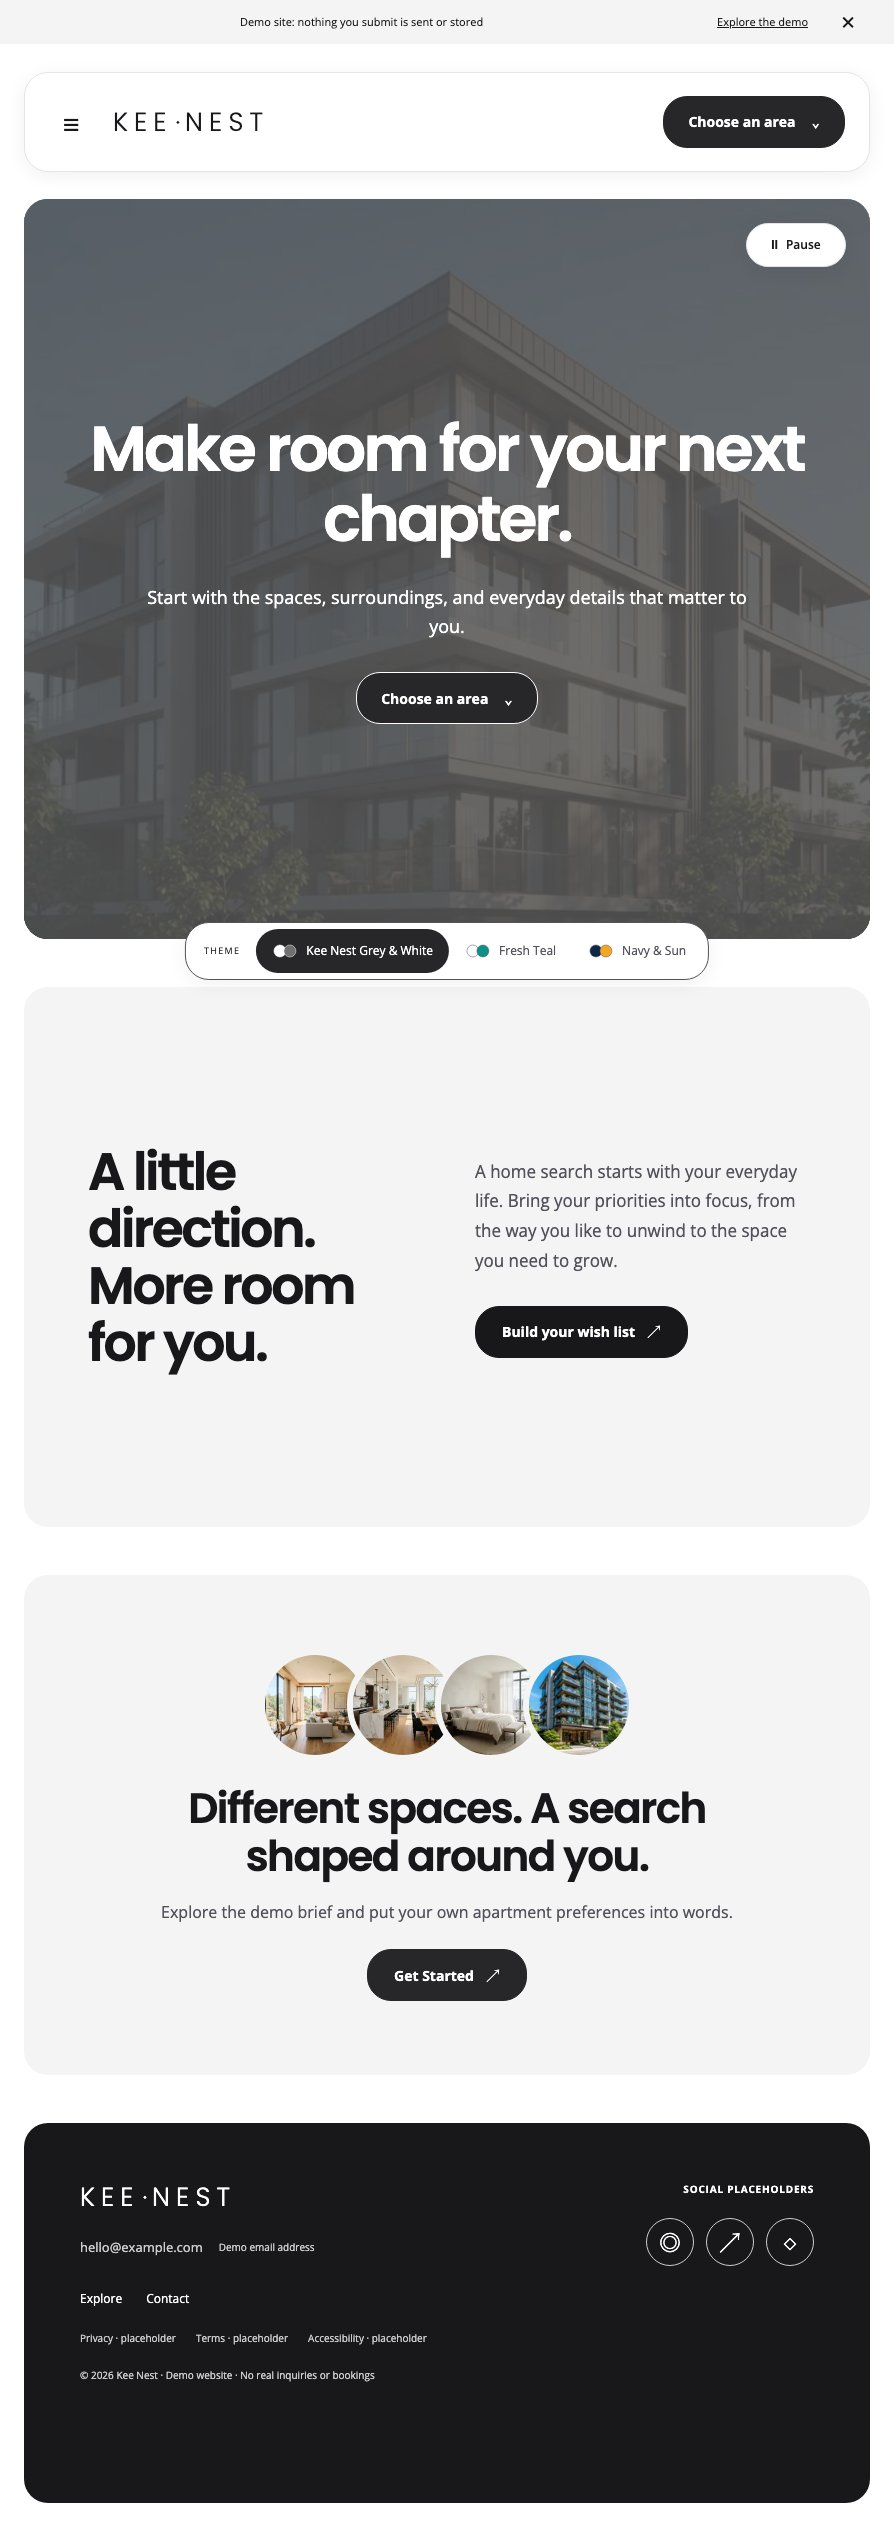
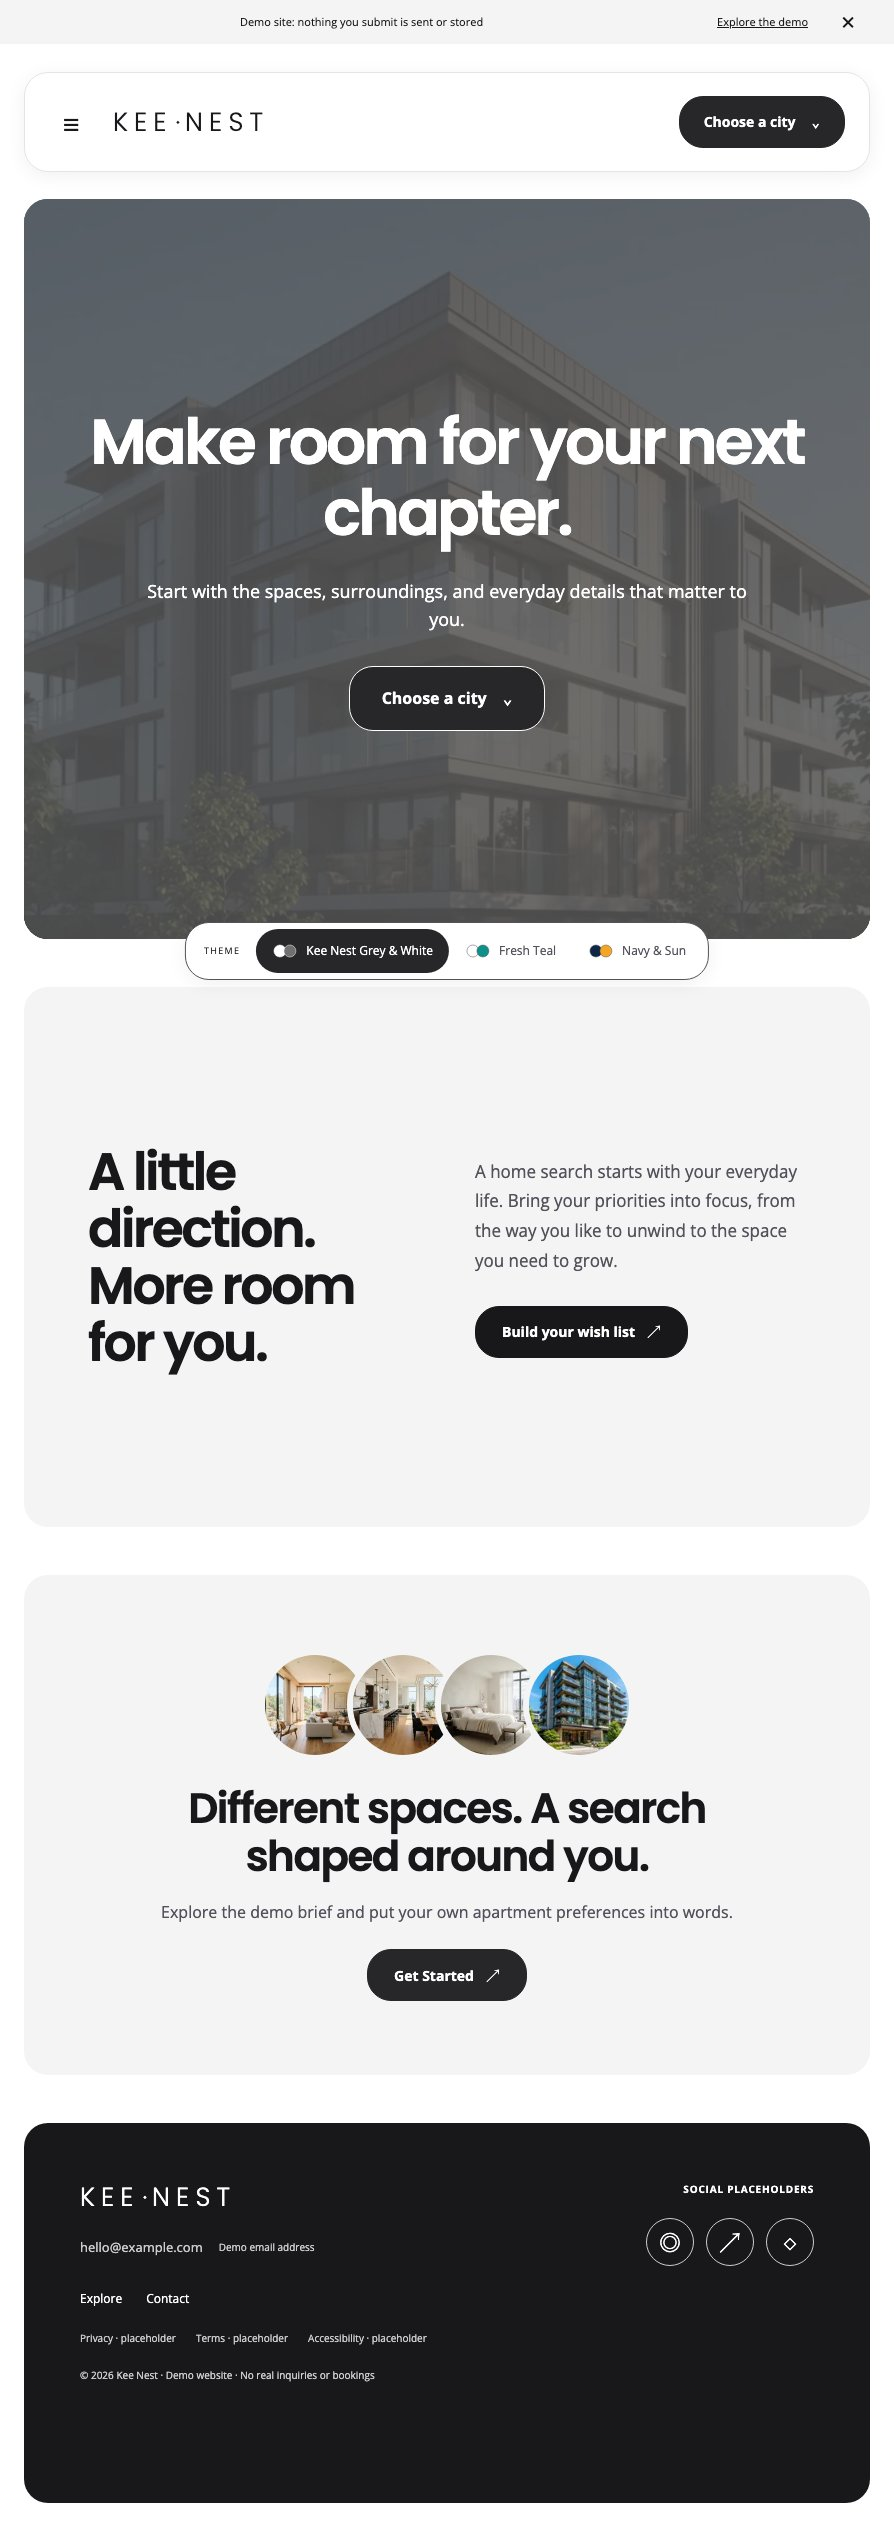
docs: verify city picker routing accessibility and hydration

diff --git a/QA.md b/QA.md
@@ -6,16 +6,16 @@ Verified locally on 2026-11-10 against `npm run preview`, using isolated Playwri
 
 The supplied comparison table is the acceptance reference for this revision. A fresh reference screenshot was not attached, so exact image-to-image fidelity cannot be certified.
 
-| Element           | Implemented and measured                                                                                                                                           |
-| ----------------- | ------------------------------------------------------------------------------------------------------------------------------------------------------------------ |
-| Announcement      | Soft palette strip, demo link, 44px dismiss target. Visible with fresh session storage; dismissal survives refresh in the same tab.                                |
-| Header            | Floating inset card, 24px corners, hamburger + wordmark left, one area chooser right. No desktop nav row. 100px card inside a 155px sticky slot including margins. |
-| Hero              | Inset rounded photo/video card, 740px high, centered copy, 63px Poppins H1, sample-area dropdown CTA. No badge or example-search cards.                            |
-| Feature           | Rounded soft-accent card, 540px high, large heading left, concise copy and dark pill right.                                                                        |
-| Image-circle band | Overlapping owned project images, centered heading and CTA in a 500px soft band.                                                                                   |
-| Footer            | Dark rounded block, demo contact/legal placeholders left and non-linked social placeholders right.                                                                 |
-| Page length       | 2,527px with notice visible: +27px / +1.08% from the approximate 2,500px reference target.                                                                         |
-| Type and corners  | Self-hosted Poppins + Open Sans. Main block/card corners are 24px; buttons remain pills.                                                                           |
+| Element           | Implemented and measured                                                                                                                                          |
+| ----------------- | ----------------------------------------------------------------------------------------------------------------------------------------------------------------- |
+| Announcement      | Soft palette strip, demo link, 44px dismiss target. Visible with fresh session storage; dismissal survives refresh in the same tab.                               |
+| Header            | Floating inset card, 24px corners, hamburger + wordmark left, one city picker right. No desktop nav row. 100px card inside a 155px sticky slot including margins. |
+| Hero              | Inset rounded photo/video card, 740px high, centered copy, 63px Poppins H1, city-picker CTA. No badge or example-search cards.                                    |
+| Feature           | Rounded soft-accent card, 540px high, large heading left, concise copy and dark pill right.                                                                       |
+| Image-circle band | Overlapping owned project images, centered heading and CTA in a 500px soft band.                                                                                  |
+| Footer            | Dark rounded block, demo contact/legal placeholders left and non-linked social placeholders right.                                                                |
+| Page length       | 2,527px with notice visible: +27px / +1.08% from the approximate 2,500px reference target.                                                                        |
+| Type and corners  | Self-hosted Poppins + Open Sans. Main block/card corners are 24px; buttons remain pills.                                                                          |
 
 Home now has four content blocks including the footer. The example searches, process, sample listings, principles, and closing CTA moved to `/explore`, available from the drawer, announcement link, and footer.
 
@@ -25,7 +25,7 @@ Screenshots: [894px](qa/home-894.jpg), [390px](qa/home-390.jpg), [1440px](qa/hom
 
 - Existing client palettes remain grey/white, teal, and navy/amber. Reference blue/periwinkle colors are not copied. All three palettes retain identical layout and type.
 - Copy, wordmark, iconography, project images, and client-supplied video are our own. No reference-site copy, branding, images, code, legal details, addresses, phone numbers, or brokerage notices were used.
-- “Choose an area” offers three clearly illustrative surroundings filters, not real city pages.
+- “Choose a city” uses the four demo entries in `src/data/cities.ts`. The city groups do not represent available properties or service locations.
 - The overlapping circles show cleared interior/exterior images. They do not imply people, a team, clients, reviews, or endorsements.
 - Footer email is `hello@example.com`, labelled demo. Social and legal items are explicit non-linked placeholders.
 - Hero overlay stays lighter than the prior composition while retaining AA white-text contrast. No price/service-cost, quality, statistics, rating, license, or guarantee claims were added. No token-reference band is shown.
@@ -36,7 +36,7 @@ Screenshots: [894px](qa/home-894.jpg), [390px](qa/home-390.jpg), [1440px](qa/hom
 - Zero horizontal overflow. Home also checked at 894px in all palettes. Height is 2,527px at 768/894/1440 and 2,502px at 390. Card geometry remains identical across themes.
 - First-render frame sampling found the persisted theme and correct selected radio, with no wrong-theme paint. Color switching produces zero added layout shift after fonts are ready. Theme persists across route navigation and refresh.
 - Drawer opens with keyboard Enter, contains focus including first/last Tab boundaries, closes with Escape, returns focus to the trigger, and closes on navigation. An explicit boundary trap was added after a keyboard check exposed a native-dialog boundary gap.
-- Header area chooser supports Enter, arrows, Home/End, Escape/focus return, outside click, and link selection into the sample listing filter. The hero reuses the same component.
+- Header city picker supports Enter, arrows, Home/End, Tab, Escape/focus return, outside click, and city-filtered Explore links. Hero and drawer reuse the same component.
 - Announcement is visible on a fresh session; dismissal remains hidden on refresh. The header compacts while its outer slot preserves document flow.
 - Desktop video loads muted; Space/Enter pause and resume. Fresh mobile, reduced-motion, and Save-Data contexts make zero video-file requests and use the poster. Public videos remain silent and below 3 MB. Media sources and fallback logic are unchanged.
 - Sample carousel buttons and arrow keys still work on Listings and Explore. No carousel autoplay. Section reveals and menu motion respect reduced motion. Questionnaire fields have no animation.
@@ -56,7 +56,7 @@ Semantic text, button, error, success, and focus pairs pass the existing automat
 
 The centered hero uses a uniform token-derived overlay. The circles use 224px responsive renditions instead of downloading larger listing images. Poppins and Open Sans replace the old font files and retain their OFL notices; the display and body faces are preloaded locally.
 
-Lighthouse 13.0.3 was rerun for the revised default palette with the same local Chromium, cold network cache, and previous mobile/desktop profiles. One serial lab run per profile:
+Before the city-picker addendum, Lighthouse 13.0.3 was rerun for the revised default palette with the same local Chromium, cold network cache, and previous mobile/desktop profiles. One serial lab run per profile:
 
 | Profile | Performance | LCP   | TBT | CLS      |
 | ------- | ----------- | ----- | --- | -------- |
@@ -65,12 +65,24 @@ Lighthouse 13.0.3 was rerun for the revised default palette with the same local 
 
 The prior default layout scored 79 mobile / 99 desktop; the earlier pre-motion baseline was 79 / 98. Other palette Lighthouse scores were not rerun after this layout change. Mobile LCP still has room for production optimization. These are lab results, not field measurements.
 
-Aggregate client JS is 580,492 raw / 192,139 gzip bytes, +3,163 raw / +1,401 gzip bytes from the preceding build. No dependency was added. Motion remains lazy `domAnimation` with `m` components and user reduced-motion support.
+Before the city-picker addendum, aggregate client JS was 580,492 raw / 192,139 gzip bytes, +3,163 raw / +1,401 gzip bytes from the preceding build. No dependency was added. Motion remains lazy `domAnimation` with `m` components and user reduced-motion support.
 
 ## Commands and limits
 
-`npm run typecheck && npm test && npm run build` passes for each logical chunk: 34 tests passed, 0 failed; client and Worker builds succeeded. `git diff --check` passes. The existing old-brand audit produces no output. No network submission integration, deployment, or Wrangler change was made.
+`npm run typecheck && npm test && npm run build` passes for each logical chunk: 37 tests passed, 0 failed; client and Worker builds succeeded. `git diff --check` passes. A word-boundary brand audit finds no obsolete brand names (accessibility attributes are excluded). No network submission integration, deployment, or Wrangler change was made.
 
 Source inventory: [design/media/INVENTORY.md](design/media/INVENTORY.md). Only the user-cleared project images and supplied silent video are used. Decorative circles are hidden from assistive technology.
 
 Not verified: exact pixel comparison without the reference screenshot, physical devices, Safari/Firefox, assistive-technology sessions, and a deployed environment. Social/legal items remain demo placeholders.
+
+## City-picker addendum verification
+
+- Shared `CityPicker` has header/hero sizes, a rotating chevron, semantic menu links, scroll-limited 16px panel corners, and fade/scale-only motion. At 390px it becomes a viewport-contained bottom sheet; inside the drawer it remains inline. The hero does not clip its panel.
+- Playwright checked header and hero at 390/768/1440px in all three palettes: no horizontal overflow, four links with at least 44px height, arrow/Home/End and Tab navigation, Escape/focus return, and outside-click dismissal. Mobile drawer selection closes the drawer; Escape closes its picker before closing the drawer.
+- Every registry city loads directly and on refresh at `/explore?city=<slug>`, with the expected heading and only its fictional sample homes. Current groups contain 3/2/2/2 homes. Sample labels and placeholder-price disclosures remain. An empty-state branch is provided; all currently configured cities have samples.
+- `keenest-city` restores the last selected item across refresh and synchronizes picker instances. Storage failure is caught; navigation still succeeds with blocked localStorage. No personal information is stored.
+- The reported hydration warning was reproduced in React's development build. `Function.toString()` generated different inline script text between server and client. The script now uses stable literal text with ids derived from the registry. Development reloads in all three stored themes show zero hydration warnings or app errors. Existing blocking-script fallback and notice tests still pass.
+- Normal-motion and reduced-motion menus both pass interaction checks. No runtime dependency, deployment, or Wrangler change was introduced.
+- Typecheck, 37 node tests, and build pass after each implementation/fix chunk. Tests cover unique city slugs, accepted/rejected city search input, and city filtering. Lighthouse was not rerun for this addendum; scores above describe the preceding layout revision.
+
+Evidence: [390px city sheet](qa/city-picker-390.jpg), [picker matrix](qa/city-picker-verification.json). Home captures above were refreshed with the city picker. Physical devices, Safari/Firefox, and screen-reader sessions were not tested.

diff --git a/README.md b/README.md
@@ -21,6 +21,6 @@ The root `logo.jpeg` supplies generated icons and the share image. Header/footer
 
 Locally hosted Poppins and Open Sans include their OFL notices. The restrained Motion integration is pinned and uses lazy `domAnimation`, `m` components, and the user's reduced-motion preference. No animation is applied to questionnaire fields. There are no live listings, matching, inquiries, bookings, analytics, or backend storage. Samples have placeholder prices and dimensions. Contact is `hello@example.com`, labelled demo.
 
-See `design/media/INVENTORY.md` for source-to-slot mapping and unused media. Home has four content blocks: an inset centered photo/video hero, a soft feature card, an overlapping image-circle band, and a dark footer with non-linked social/legal placeholders. The floating sticky header has a keyboard-accessible drawer and a sample-area dropdown; the demo announcement dismisses for the tab session. `/explore` holds the former example searches, process, sample listing carousels, principles, and closing CTA. `/listings` retains the filterable sample grid. Images have 224px, 640px, and full-size WebP sources plus JPEG fallbacks. Hero video is suppressed on small viewports, reduced motion, and Save-Data, with accessible pause/play elsewhere. The optional audio player is intentionally omitted.
+See `design/media/INVENTORY.md` for source-to-slot mapping and unused media. Home has four content blocks: an inset centered photo/video hero, a soft feature card, an overlapping image-circle band, and a dark footer with non-linked social/legal placeholders. The floating sticky header has a keyboard-accessible drawer and the shared city picker; the demo announcement dismisses for the tab session. Demo cities are defined once in `src/data/cities.ts`; selection opens `/explore?city=<slug>` and saves the last choice under `keenest-city`. City groups contain fictional sample homes, not available properties or service locations. `/explore` holds the former example searches, process, sample listing carousels, principles, and closing CTA. `/listings` retains the filterable sample grid. Images have 224px, 640px, and full-size WebP sources plus JPEG fallbacks. Hero video is suppressed on small viewports, reduced motion, and Save-Data, with accessible pause/play elsewhere. The optional audio player is intentionally omitted.
 
 Final browser, contrast, Lighthouse, and bundle results are in `QA.md`; comparison captures and a compact results file are in `qa/`. Deployment remains a separate user action.
